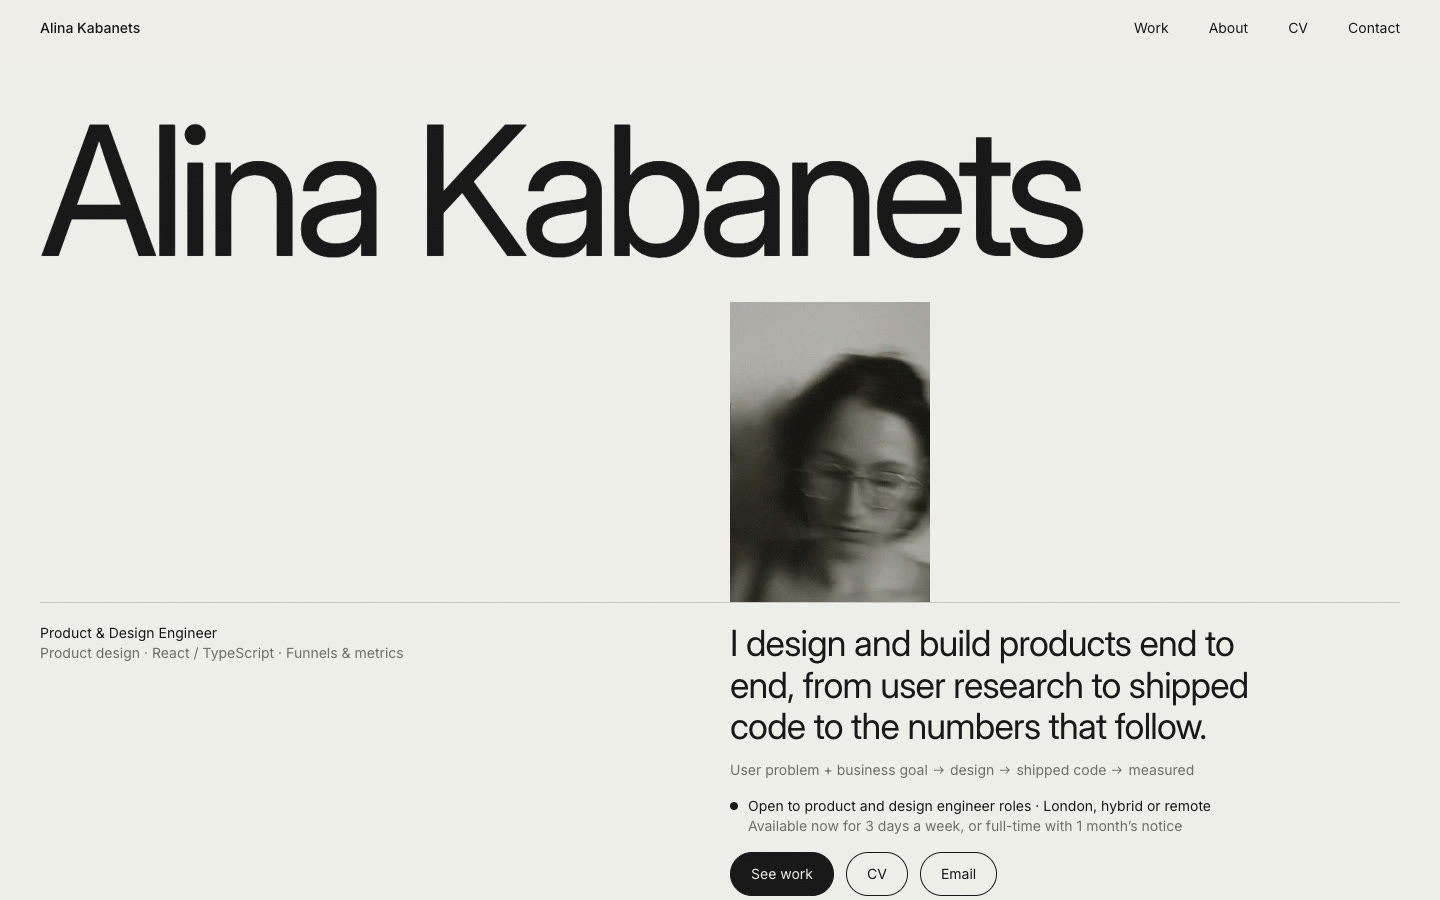
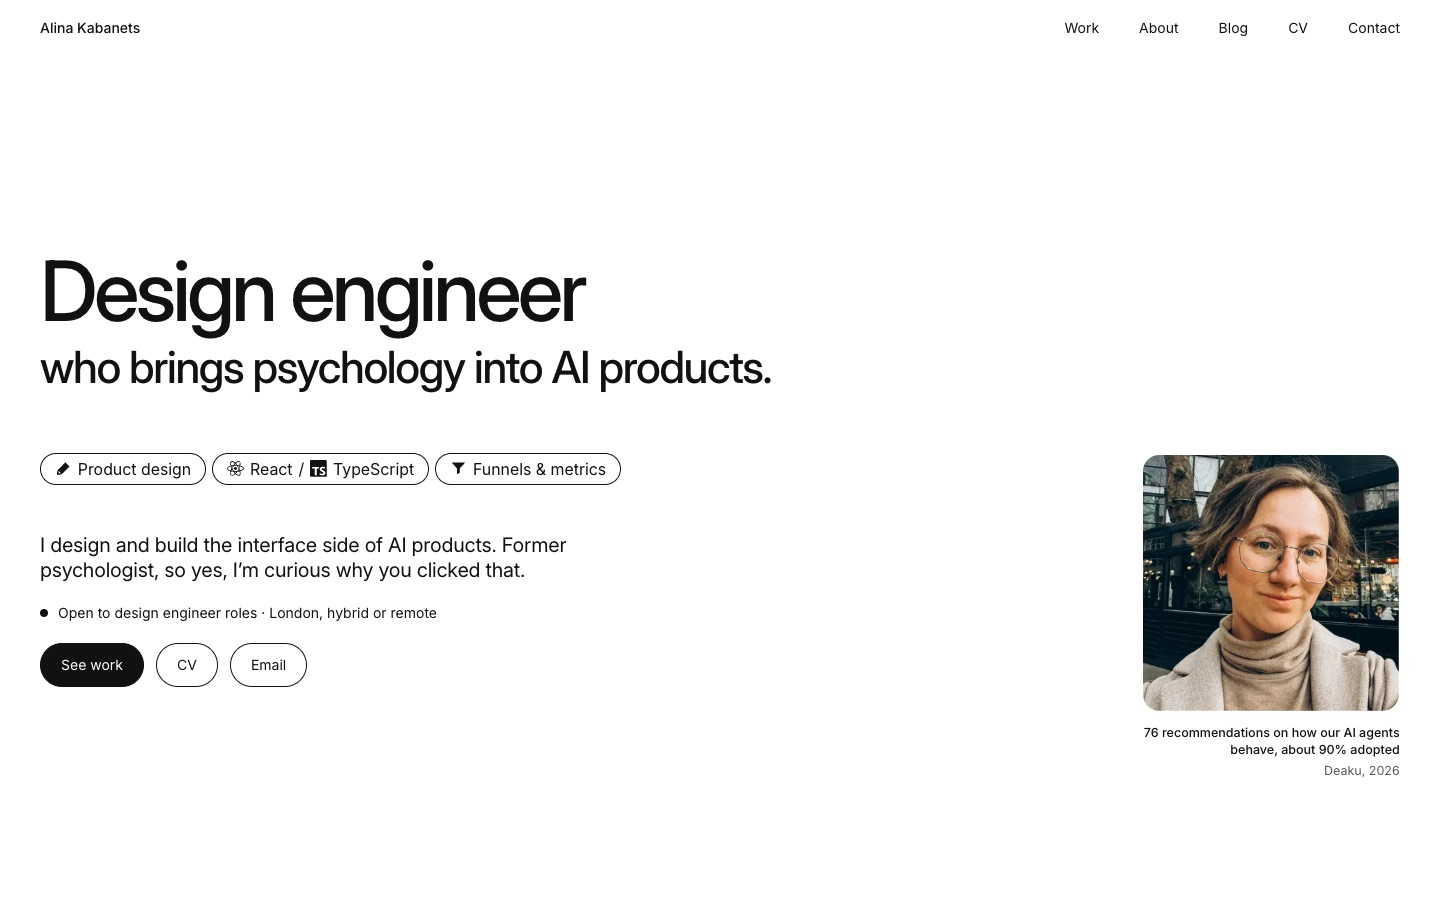
README: new screenshots, KPI tree case study, blog and garden

diff --git a/README.md b/README.md
@@ -1,44 +1,65 @@
 # alinakabanets.com
 
-My portfolio as a design engineer: two case studies, a live product demo and a before/after of a landing page I rebuilt.
+My portfolio as a design engineer who brings psychology into AI products: three case studies, a blog, and a garden where visitors draw a plant.
 
 **Live site: [alinakabanets.com](https://alinakabanets.com)**
 
-![Homepage: name, portrait and a one-line summary of what I do](.github/readme/home.jpg)
+![Homepage: "Design engineer who brings psychology into AI products", skill tags, a short intro and a portrait](.github/readme/home.jpg)
 
 ## What's on it
 
-- **[Two healthcare MVPs, designed from scratch](https://alinakabanets.com/work/vigorant-healthcare-mvps)**: a patient portal and an admin portal for Borna Care, from research and user flows to a design system and shipped UI.
-- **[From measuring the funnel to rebuilding the page](https://alinakabanets.com/work/deaku-landing-page)**: finding where visitors left Deaku's landing page, then redesigning, rebuilding and instrumenting it.
+### Case studies
 
-![Selected work: project details on the left, a product demo playing on the right](.github/readme/work.jpg)
+- **[From measuring the funnel to rebuilding the page](https://alinakabanets.com/work/deaku-landing-page)**: finding where visitors left Deaku's landing page, then redesigning, rebuilding and instrumenting it.
+- **[Two healthcare MVPs, designed from scratch](https://alinakabanets.com/work/vigorant-healthcare-mvps)**: a patient portal and an admin portal for Borna Care, from research and user flows to a design system and shipped UI.
+- **[The first metrics layer, from a revenue goal to design metrics](https://alinakabanets.com/work/deaku-kpi-tree)**: Deaku's first KPI tree, from the revenue target down to the design metrics, with one north-star metric.
+
+![Selected work: project details and stack on the left, the Deaku landing page before and after on the right](.github/readme/work.jpg)
+
+![Case study header: the title on the left, the KPI tree on the right](.github/readme/case-study.jpg)
+
+### Blog
+
+Notes on designing and building AI products, starting with [Notes on adaptive software](https://alinakabanets.com/blog/notes-on-adaptive-software).
+
+![A blog post: date, reading time, title and a "Seedling" status tag](.github/readme/blog.jpg)
+
+### Garden
+
+[Plant something](https://alinakabanets.com/garden): pick up a crayon, draw a plant, and it grows next to everyone else's with a little wooden marker carrying your name. You can water other people's plants too.
+
+![The garden: crayon plants with name markers under a night sky, and a crayon box below](.github/readme/garden.jpg)
 
 ## Things I built for it
 
 | | |
 |---|---|
+| **Hero layout** | The homepage hero is laid out like a poster: each block has a position and width relative to the page, so it scales with the screen. On phones the blocks stack. |
 | **Product demo player** | Plays a product story scene by scene: a phone screen and an admin screen side by side, a caption that types itself out, and long screens that scroll. Built from still images and code, so it stays sharp and loads fast. |
 | **Before / after player** | Switches between the old landing page and a screen recording of the new one. |
-| **Case study blocks** | Sections, figures with captions, ratio-only charts, a permissions table and a code block, so every case study follows the same structure. |
+| **Case study blocks** | Sections, figures with captions, diagrams, ratio-only charts, a permissions table and a code block, so every case study follows the same structure. |
+| **Blog** | Posts are Markdown files. Images get their real sizes so the page doesn't jump, open full size on click, and line up in rows. Each post has a status: seedling, growing or evergreen. |
+| **Crayon garden** | A [tldraw](https://tldraw.dev) canvas with custom shapes and tools: crayon strokes, plants that grow on hover, wooden name markers and a watering can. New plants wait for my approval before they appear for everyone. |
+| **Link preview cards** | Every page, case study and post gets its own generated preview image for LinkedIn, X and messages. |
 | **Content as data** | All text and project details live in `content/`, separate from the components that display them. |
 
 ## How it's built
 
 - **Next.js 16** (App Router), **React 19**, **TypeScript** and **Tailwind CSS 4**.
-- **Every page is static.** Pages are prebuilt as HTML and served by Vercel.
+- **Every page is static.** Pages are prebuilt as HTML and served by Vercel. The one exception is the garden, whose plants load in the browser from a small API backed by Upstash Redis.
 - **Motion never blocks content.** Demos play only while on screen, can always be paused, and stay still for visitors who have reduced motion turned on.
 - **Accessible by default:** semantic HTML, a skip link, visible keyboard focus, alt text on every image, and captions that screen readers get in full.
-- **Link previews and SEO:** a generated preview image for every page, canonical URLs, a sitemap and structured data.
+- **Link previews and SEO:** canonical URLs, a sitemap and structured data.
 - **Security headers,** including a content security policy, set in `next.config.ts`.
-- **Privacy:** no cookies and no tracking scripts. Cookieless analytics (Umami) is wired in but switched off until it's configured.
+- **Privacy:** no cookies. Cookieless analytics (Umami) counts visits and a few clicks, such as opening a case study or the CV.
 
 ## Project structure
 
 ```
-app/          Pages, metadata, sitemap, generated preview images
-components/   Hero, work list, demo players, case study blocks
-content/      Profile, projects and case study write-ups
-lib/          Small shared helpers
+app/          Pages, metadata, sitemap, preview images, garden API
+components/   Hero, work list, demo players, case study blocks, blog, garden
+content/      Profile, projects, case study write-ups, blog posts
+lib/          Shared helpers: blog, preview cards, garden storage
 public/       Images, videos and the CV
 ```
 
